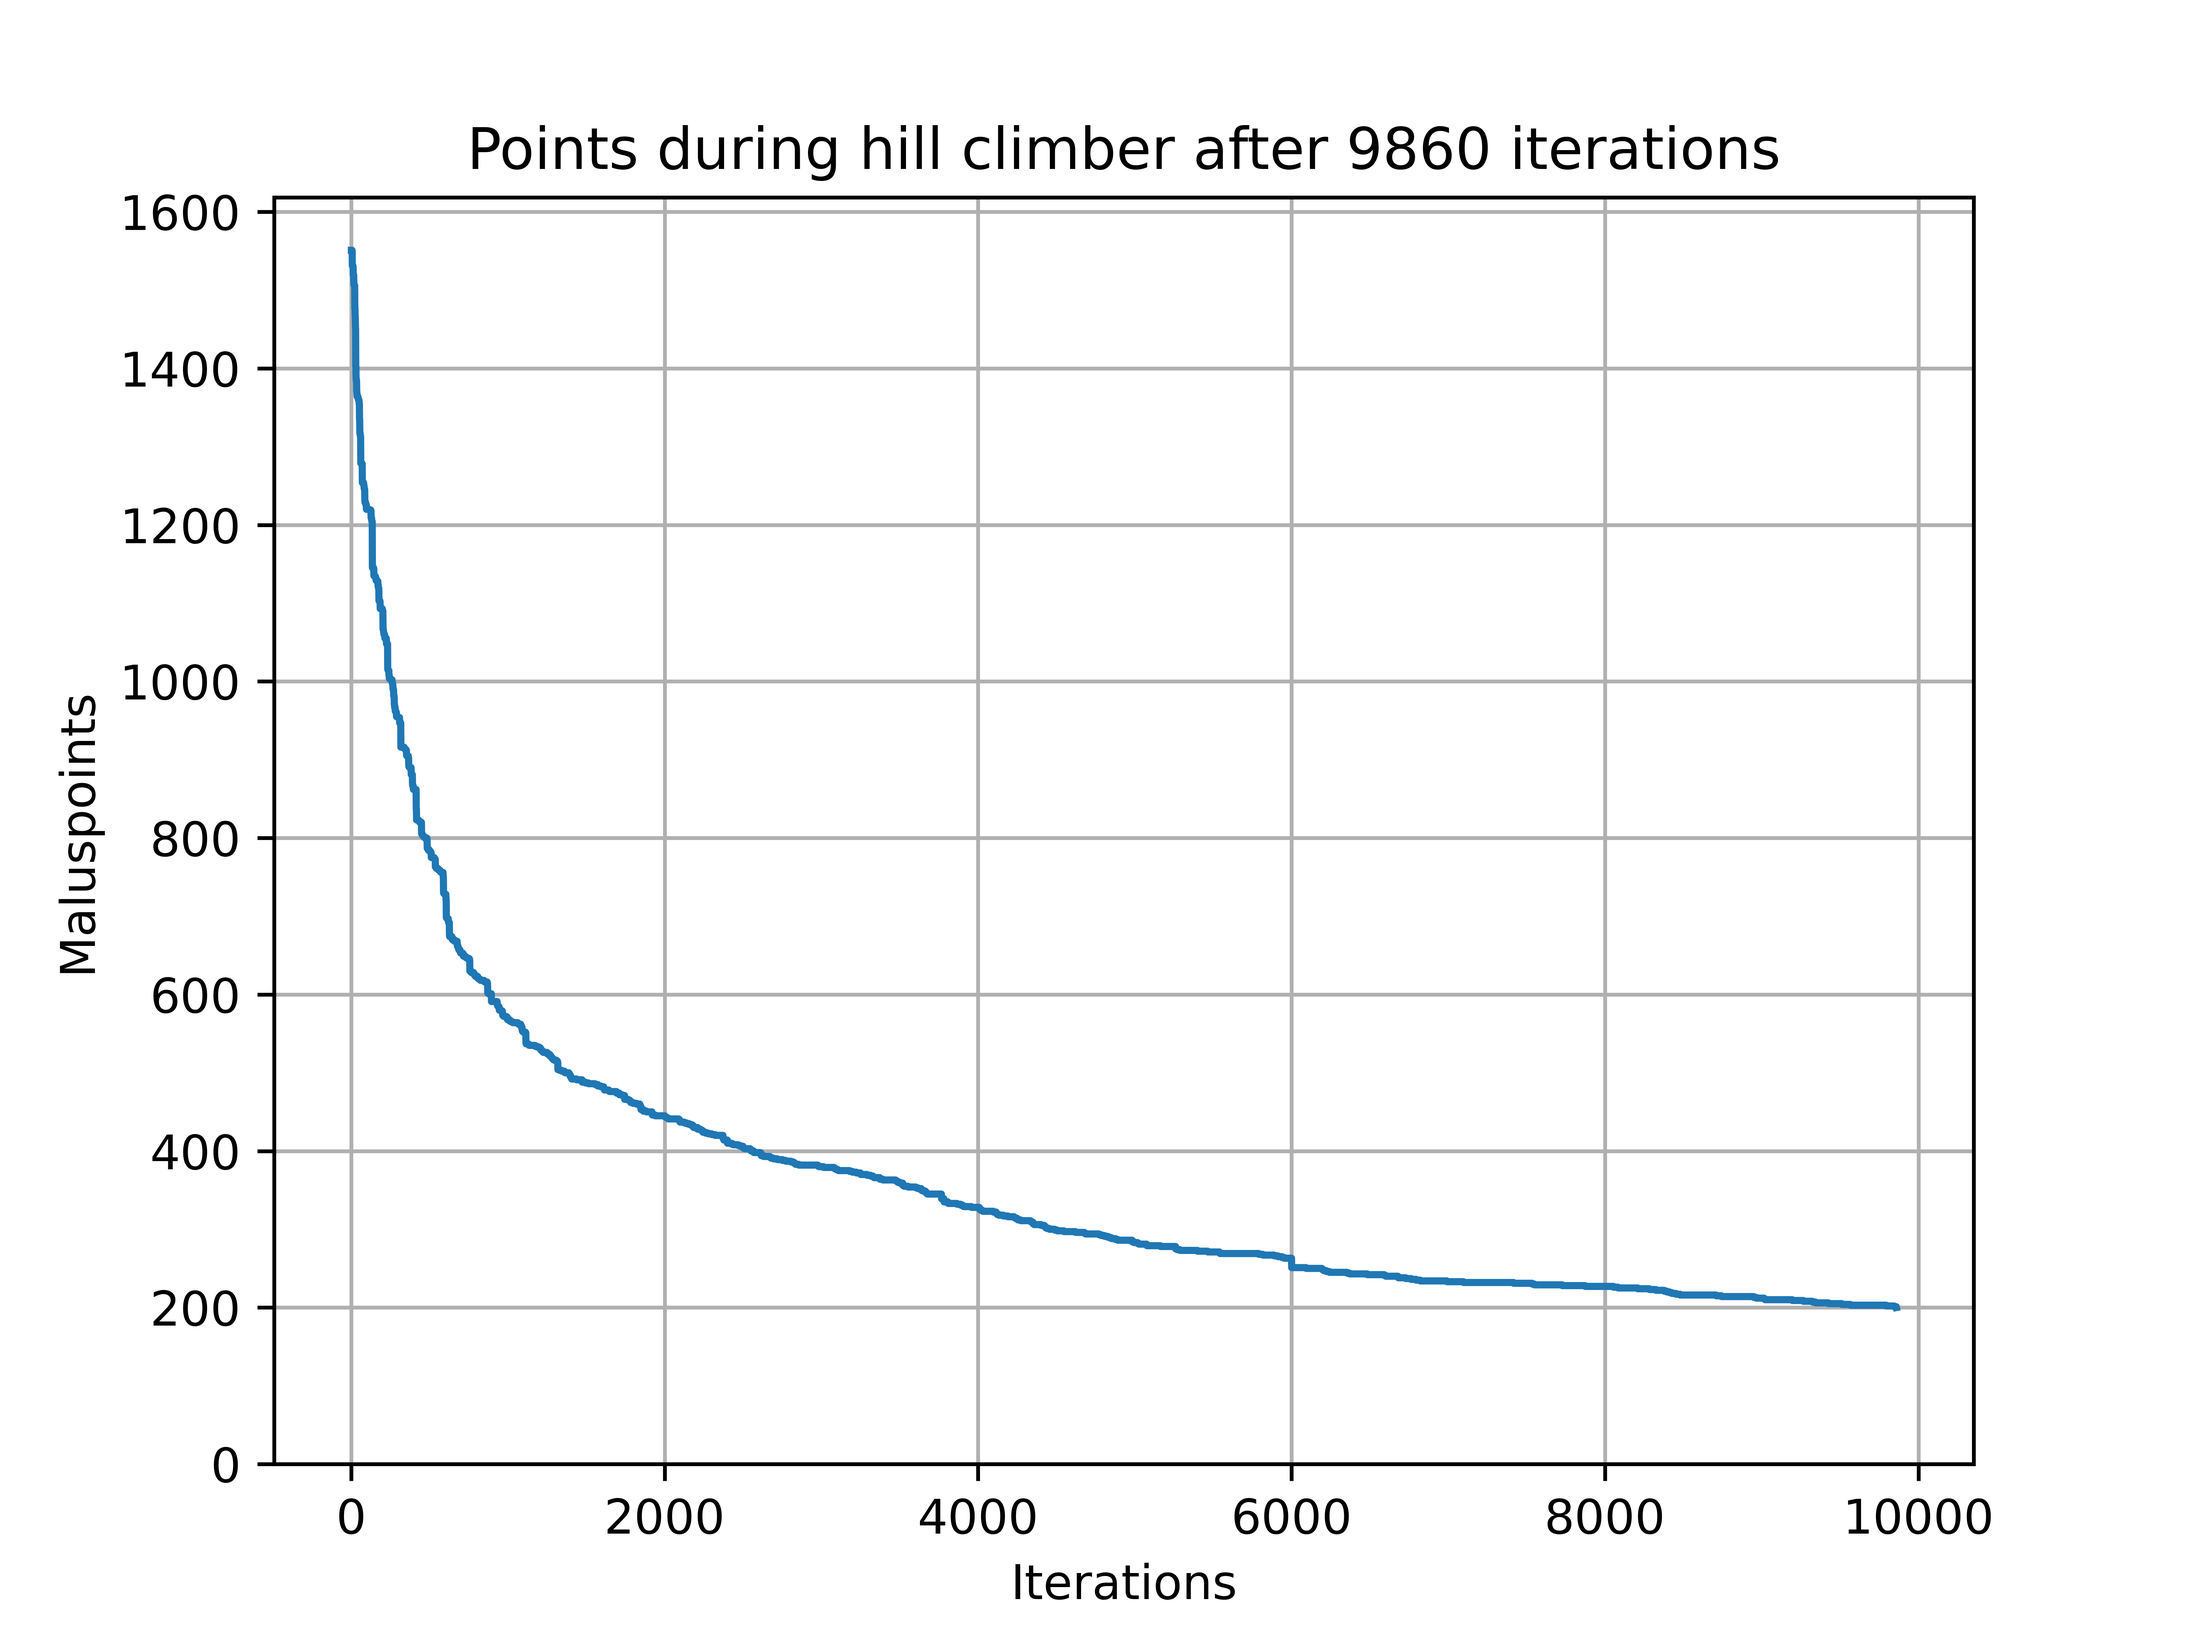
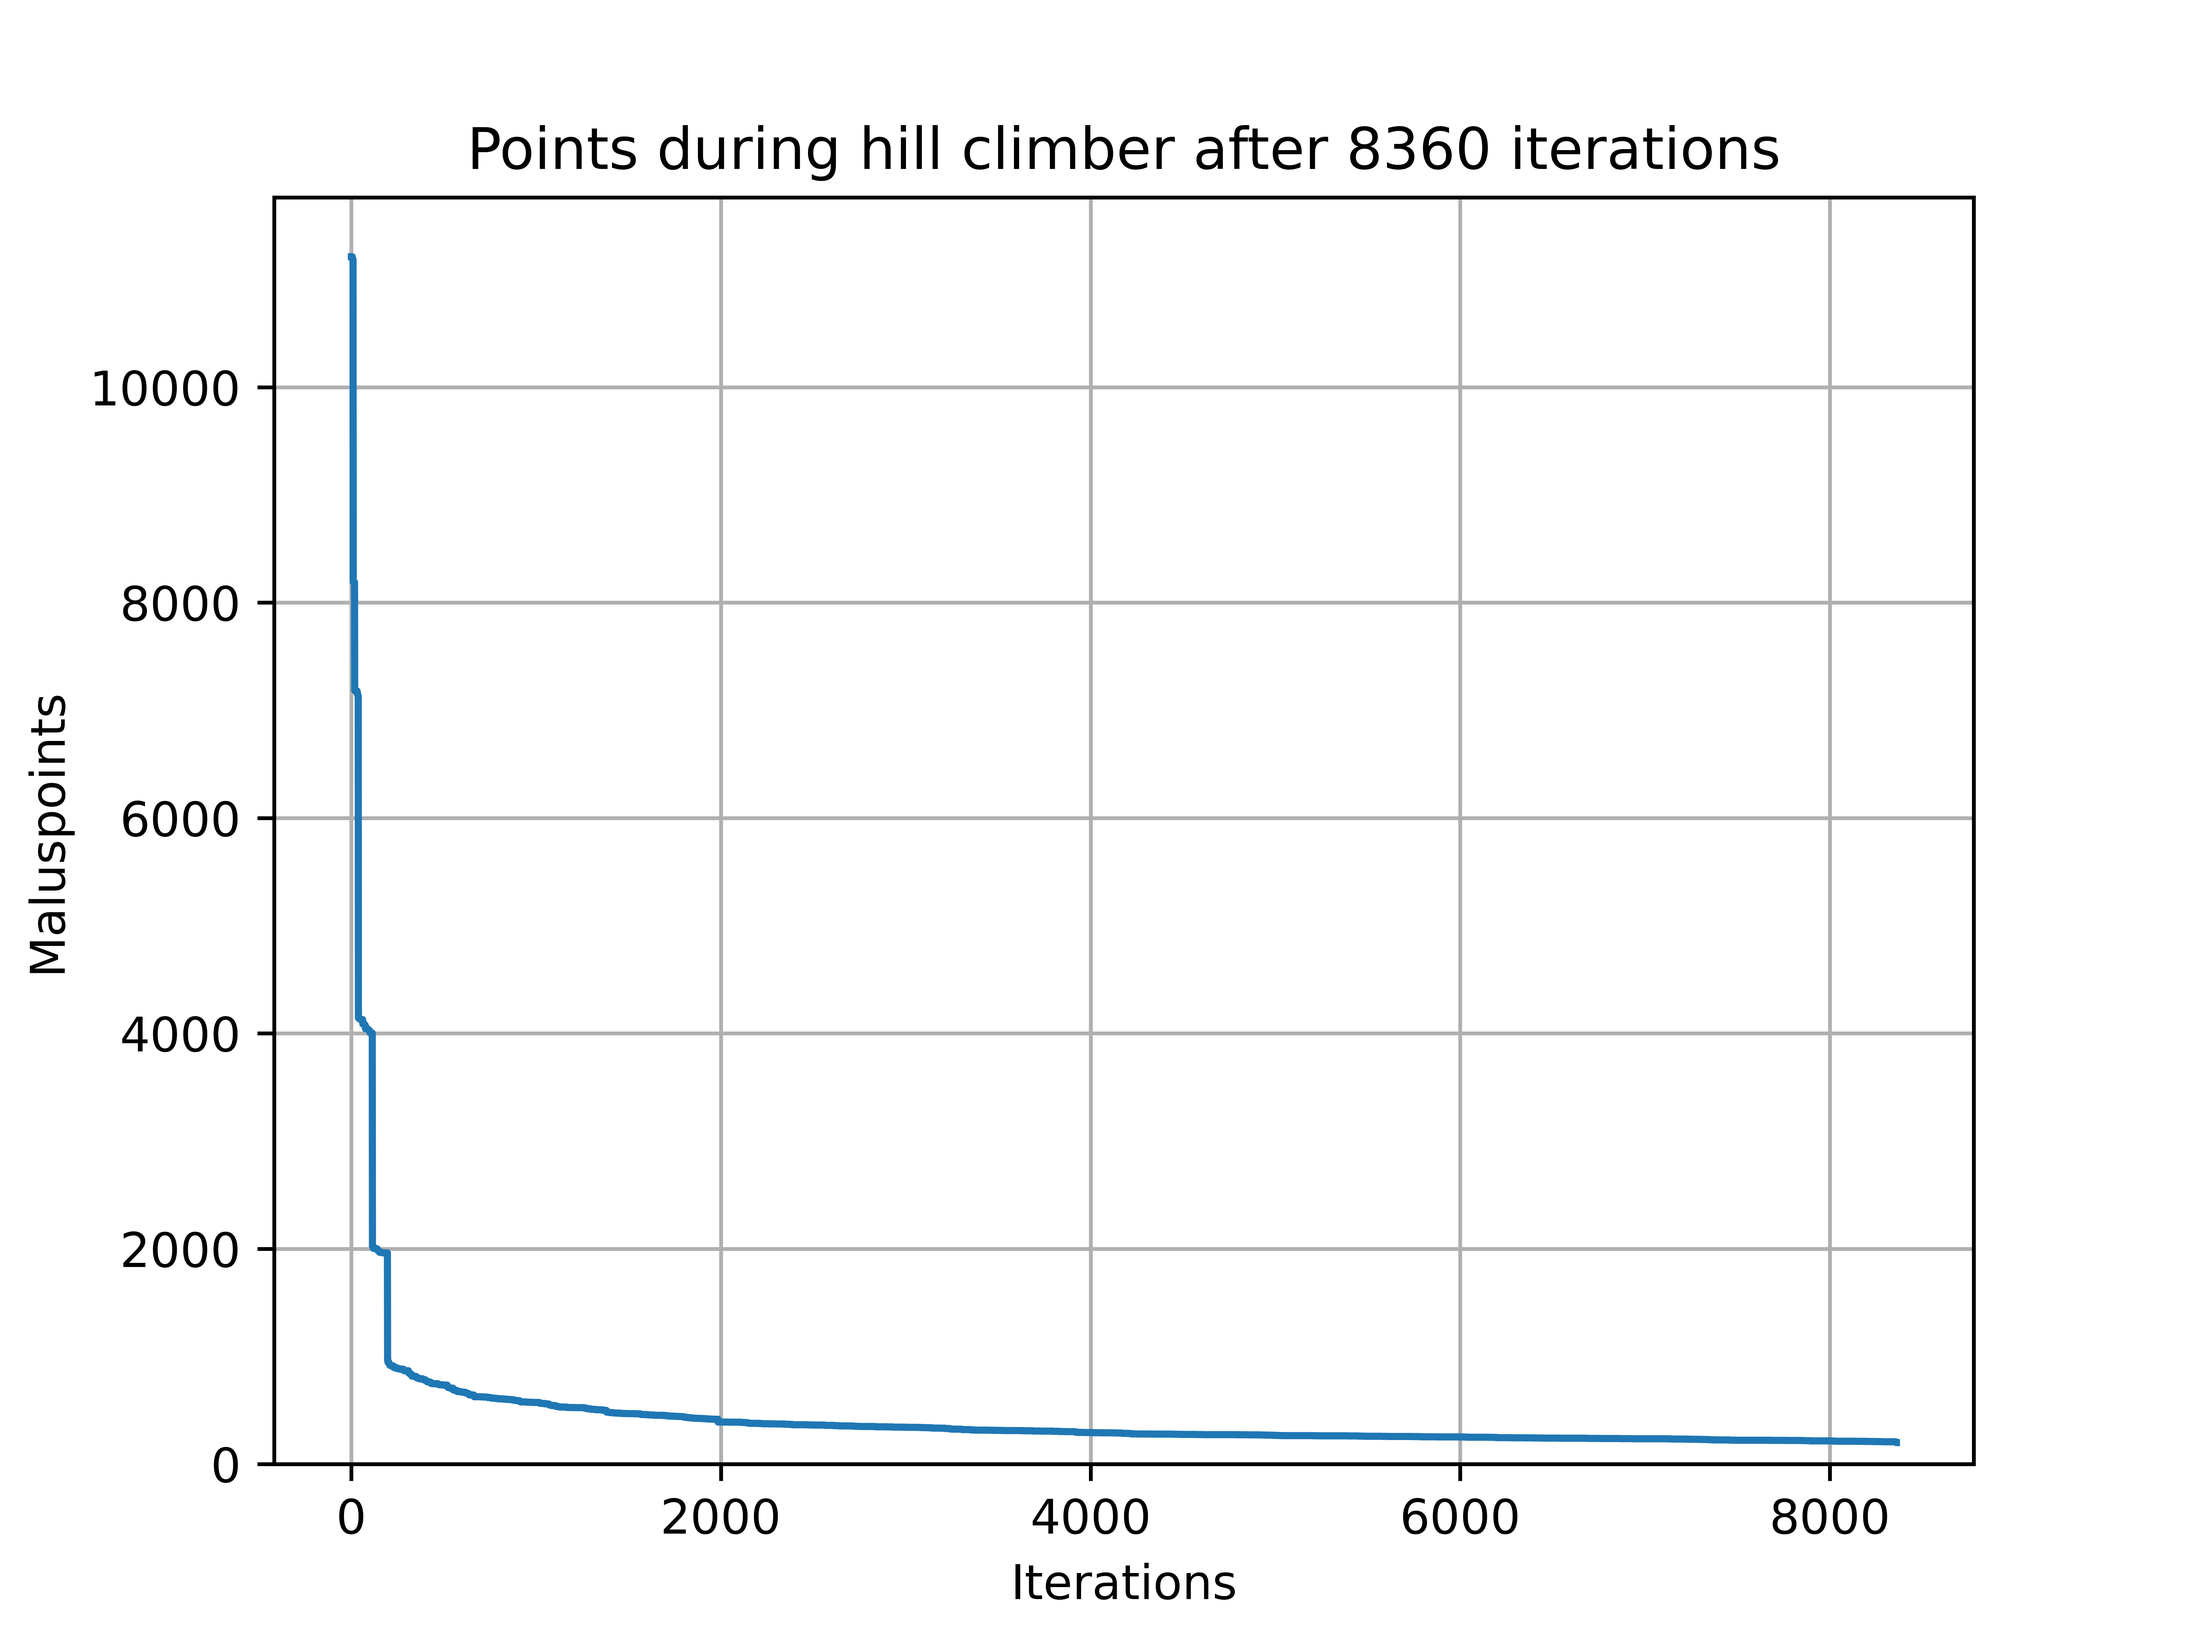
working main correction push

diff --git a/code/checker.py b/code/checker.py
@@ -8,7 +8,7 @@
 
 from collections import Counter
 
-def checker(activities, student_dict):
+def checker(activities, student_dict, constraint):
     """
     Checker function calculating maluspoints for schedule for each student
 
@@ -20,6 +20,11 @@ def checker(activities, student_dict):
         Malus points if valid result
     """
     malus = 0
+
+    if constraint == True:
+        terms = 2
+    elif constraint == False:
+        terms = 3
 
     for activity in activities:
         if activity:
@@ -59,7 +64,7 @@ def checker(activities, student_dict):
                         # Iterate over both lists to find difference between times
                         for l1, l2 in zlip:
                             idx = int(((l2 - l1) / 2) - 1) # Idx just because one break gives -1 and two give -3 (not 2)
-                            if idx > 3                                                                                                                                                                                                                                                                                                                                                                                                                                                                                                                                                                                                                                                                                                                                                                                                                                                                                                                                                                                                                                                                                                                                                                                                                                                                                                                                                                                                                                                                                                                                                                                                                                                  :
+                            if idx > 2                                                                                                                                                                                                                                                                                                                                                                                                                                                                                                                                                                                                                                                                                                                                                                                                                                                                                                                                                                                                                                                                                                                                                                                                                                                                                                                                                                                                                                                                                                                                                                                                                                                  :
                                 return False # If more than 2 breaks, invalid result, thus return early and stop
 
                             #mal_dict[f'free_period{idx}'] += 1

diff --git a/main.py b/main.py
@@ -42,7 +42,7 @@ class InvalidAlgorithm(Exception):
     pass
 
 
-def main(graph, algorithm, streak_limit, iteration_limit, point_limit, temperature_multiplier):
+def main(graph, algorithm, streak_limit, iteration_limit, point_limit, temperature_multiplier, constraint):
     """
     Main function for this programm
         * Loads and uses source information in hill climber
@@ -70,15 +70,16 @@ def main(graph, algorithm, streak_limit, iteration_limit, point_limit, temperatu
         planner = Planner(classrooms_list)
         semirandom(course_set, classrooms_list, planner, planner.days, planner.times)
         student_dict = planner.create_student_dict(students_set)
-        points = checker(planner.slots, student_dict)
+        points = checker(planner.slots, student_dict, constraint)
+        print(points)
 
     # Create object of class hill climber
-    hill = HillClimber(planner, course_set, students_set, streak_limit, iteration_limit, point_limit, temperature_multiplier)
+    hill = HillClimber(planner, course_set, students_set, streak_limit, iteration_limit, point_limit, temperature_multiplier, constraint)
 
     # Run hill climber method and evaluate its results
     iterations = hill.run(algorithm)
     student_dict = planner.create_student_dict(students_set)
-    points = checker(planner.slots, student_dict)
+    points = checker(planner.slots, student_dict, constraint)
 
     # Create visualisation and csv dataset from results
     if graph:
@@ -98,6 +99,7 @@ if __name__ == '__main__':
     parser.add_argument('-p', '--point_limit', type=int, default=200,help='switching point from climber to annealing (default: 200)')
     parser.add_argument('-i', '--iteration_limit', type=int, default=10000,help='annealing iterations (default: 10000)')
     parser.add_argument('-t', '--temperature_multiplier', type=float, default=1,help='annealing temperature multiplier (default: 1)')
+    parser.add_argument('-c', '--constraint', type=bool,default=False, help='use hard-constraint for third break term (default: False)')
     parser.add_argument('-d', '--distribution', type=bool,default=False, help='create distribution histogram (default: False)')
     parser.add_argument('-g', '--graph',   type=bool,default=False,
                         help='create lines graph for single run, do not use together with distribution! (default: False)')
@@ -110,7 +112,7 @@ if __name__ == '__main__':
     # Run main with provided arguments
     points, iterations = [], []
     for _ in range(args.runs):
-        new_points, i = main(args.graph, args.algorithm, args.streak_limit, args.iteration_limit, args.point_limit, args.temperature_multiplier)
+        new_points, i = main(args.graph, args.algorithm, args.streak_limit, args.iteration_limit, args.point_limit, args.temperature_multiplier, args.constraint)
         points.append(new_points)
         iterations.append(i)
 

diff --git a/code/algorithms/hill_climber.py b/code/algorithms/hill_climber.py
@@ -1,5 +1,7 @@
 import sys
 import os
+
+from sqlalchemy import Constraint
 current = os.path.dirname(os.path.realpath(__file__))
 parent = os.path.dirname(current)
 sys.path.append(parent)
@@ -13,7 +15,7 @@ sys.setrecursionlimit(10000)
 
 class HillClimber:
 
-    def __init__(self, planner, course_set, students_set, streak_limit, iteration_limit, point_limit, temperature_multiplier):
+    def __init__(self, planner, course_set, students_set, streak_limit, iteration_limit, point_limit, temperature_multiplier, constraint):
         self.planner = planner
         self._courses = tuple(course_set)
         self._students = tuple(students_set)
@@ -22,6 +24,7 @@ class HillClimber:
         self.iteration_limit = iteration_limit
         self.point_limit = point_limit
         self.temperature_multiplier = temperature_multiplier
+        self.constraint = constraint
         self.plotx = []
         self.ploty = []
 
@@ -169,7 +172,7 @@ class HillClimber:
         # Change slot of activity randomly
         index_activity_1, index_activity_2 = self.activity_switch()
         student_dict = self.planner.create_student_dict(self._students)
-        new_points = checker(self.planner.slots, student_dict)
+        new_points = checker(self.planner.slots, student_dict, self.constraint)
 
         # Determine if climber or annealer comparison is needed
         if Tstart == None:
@@ -212,7 +215,7 @@ class HillClimber:
         # Change a random activity group for a random student
         random_group_1, random_group_2, random_student_1, random_student_2 = self.reassign()
         student_dict = self.planner.create_student_dict(self._students)
-        new_points = checker(self.planner.slots, student_dict)
+        new_points = checker(self.planner.slots, student_dict, self.constraint)
 
         # Determine if climber or annealer comparison is needed
         if Tstart == None:
@@ -276,7 +279,7 @@ class HillClimber:
 
         # Count current maluspoints
         student_dict = self.planner.create_student_dict(self._students)
-        old_points = checker(self.planner.slots, student_dict)
+        old_points = checker(self.planner.slots, student_dict, self.constraint)
 
         # Check which algorithm is used and run appropriate loops
         if algorithm == 'climber_annealing':
